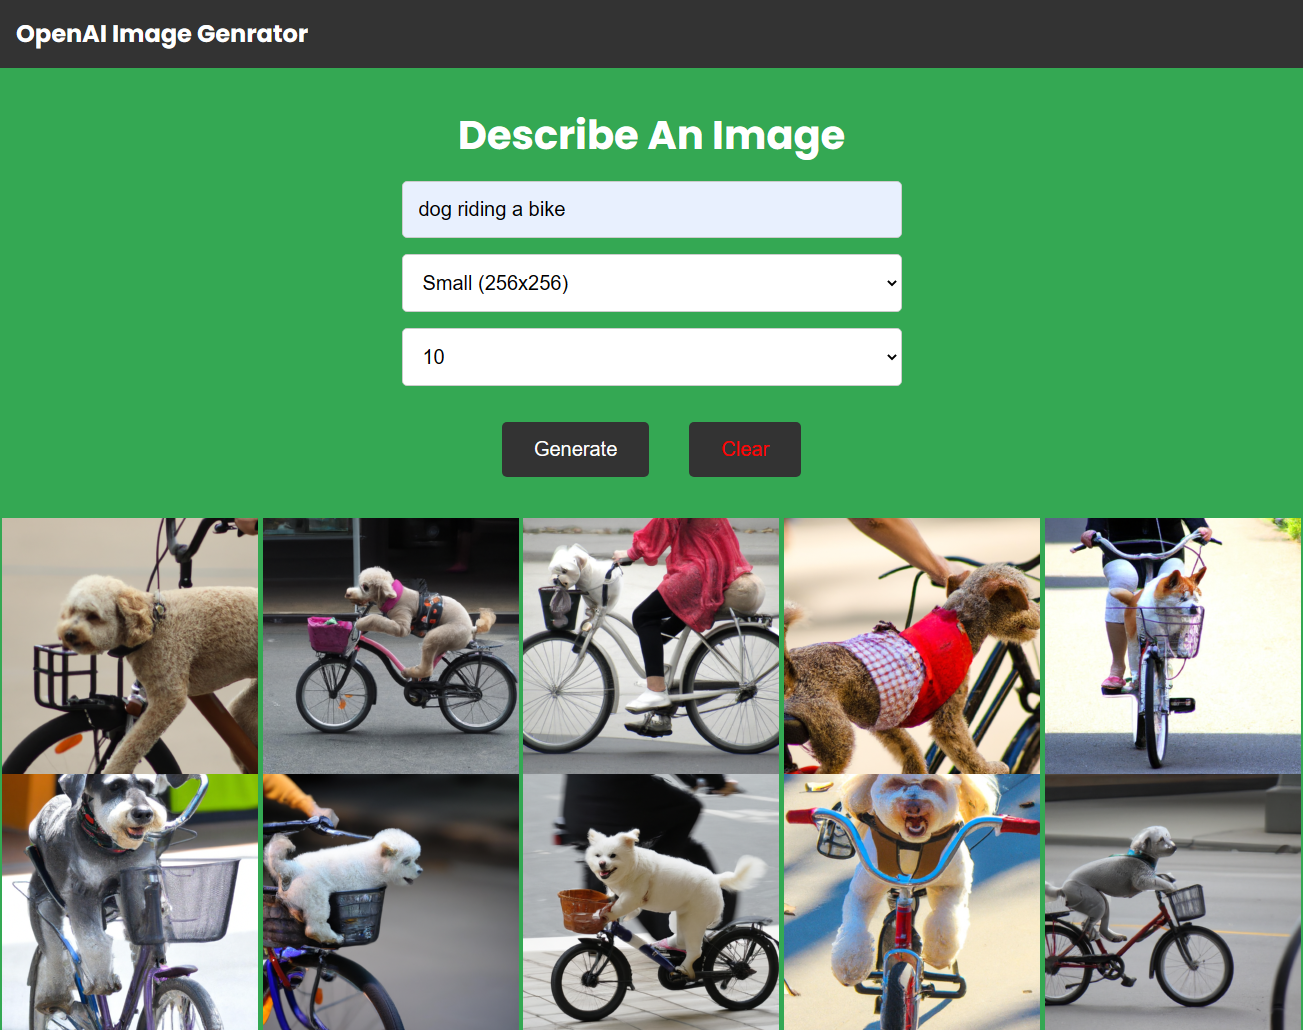
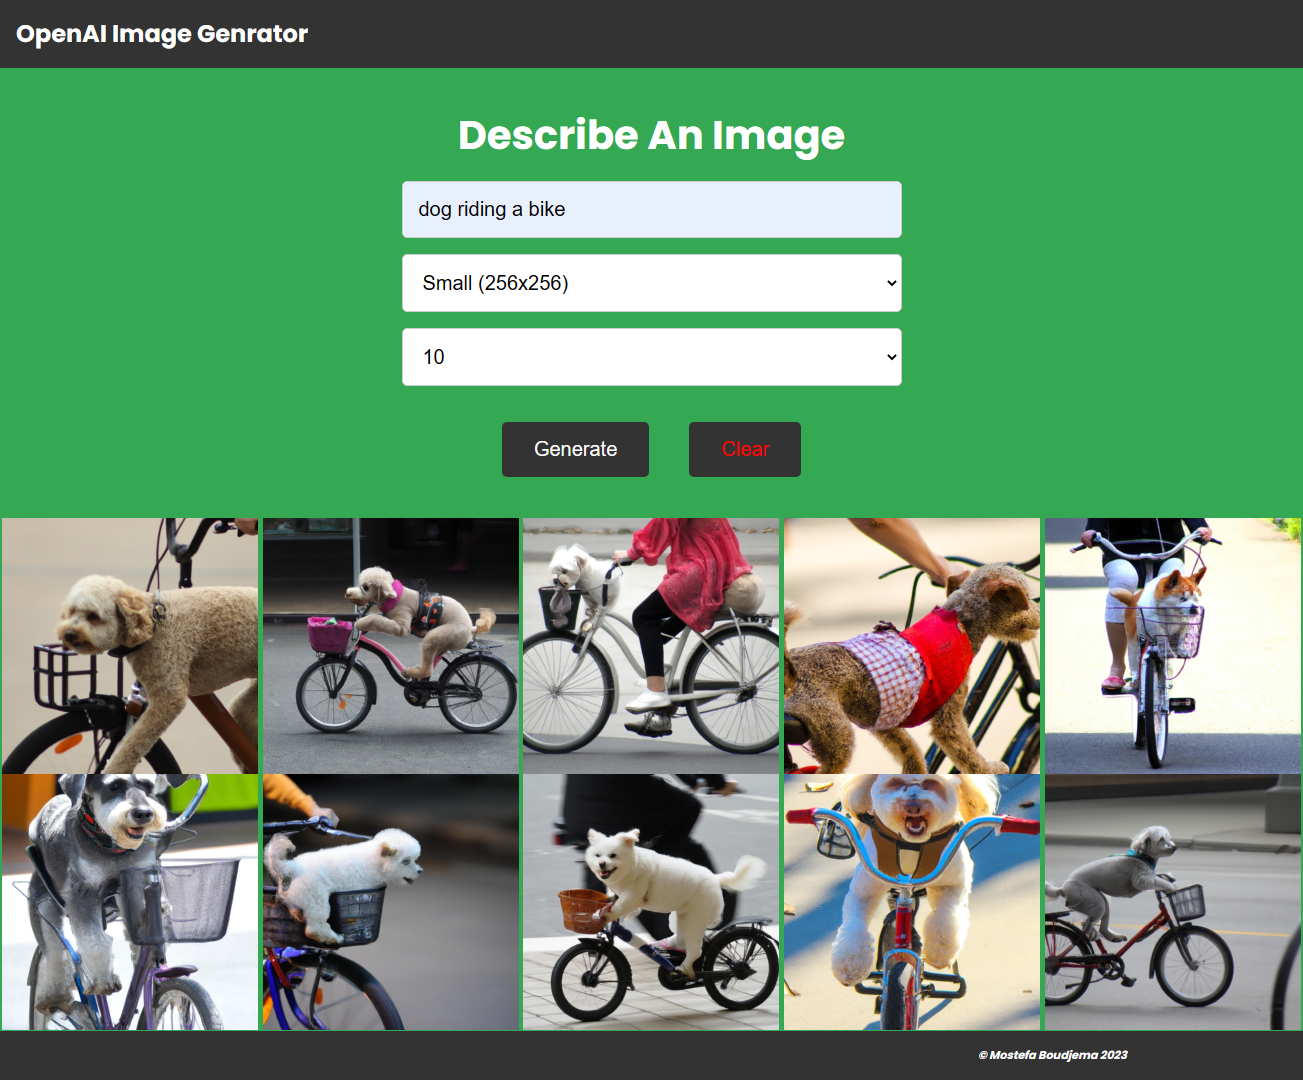
footer + readme

diff --git a/src/components/FooterPage.vue b/src/components/FooterPage.vue
@@ -1,0 +1,56 @@
+<template>
+    <header>
+        <div class="footer">
+            <h5><i aria-hidden="true"></i></h5>
+            <h5><i aria-hidden="true"></i></h5>
+            <h5><i aria-hidden="true"></i></h5>
+            <h5><i aria-hidden="true"></i></h5>
+            <h5><i aria-hidden="true"></i></h5>
+            <h5><i aria-hidden="true"></i></h5>
+            <h5><i aria-hidden="true">© Mostefa Boudjema 2023 </i></h5>
+            <div class="nav-links">
+                <ul></ul>
+            </div>
+        </div>
+    </header>
+</template>
+
+<script>
+export default {};
+</script>
+
+<style scoped>
+.footer {
+    background: #333;
+    color: #fff;
+    padding: 1rem;
+    display: flex;
+    justify-content: space-between;
+    align-items: center;
+}
+
+.footer ul {
+    list-style: none;
+    display: flex;
+}
+
+.footer ul li {
+    margin-left: 1rem;
+}
+
+.footer a {
+    color: #fff;
+    text-decoration: none;
+    font-size: 1.2rem;
+}
+
+.footer a:hover {
+    color: var(--primary-color);
+}
+
+.footer h5{
+    font-size: 0.7rem;
+    text-align: right;
+    color: rgb(255, 255, 255);
+}
+</style>

diff --git a/src/App.vue b/src/App.vue
@@ -1,10 +1,12 @@
 <template>
     <header-page />
     <chatgptUI />
+    <footer-page/>
 </template>
 
 <script>
 import chatgptUI from "./components/chatgptUI.vue";
+import FooterPage from './components/FooterPage.vue';
 import HeaderPage from "./components/HeaderPage.vue";
 
 export default {
@@ -12,6 +14,7 @@ export default {
     components: {
         chatgptUI,
         HeaderPage,
+        FooterPage,
     },
 };
 </script>

diff --git a/README.md b/README.md
@@ -7,6 +7,8 @@ See [Configuration Reference](https://cli.vuejs.org/config/).
 This is a simple image generator built with Vue3 that uses [OpenAI's Dall-E models](https://beta.openai.com/docs/guides/images) to generate images.
 
 <img src="public/img/screen.png" width="800">
+<img src="public/img/screen2.png" width="800">
+<img src="public/img/screen3.png" width="800">
 
 ## Usage
 
